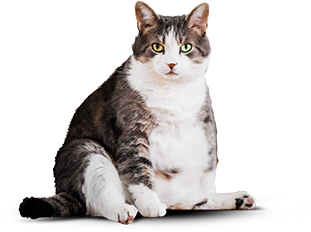
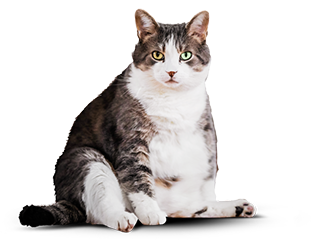
Выполянет ретинизацию графики + скрипт переключения котов на мобильной версии

diff --git a/source/index.html b/source/index.html
@@ -39,9 +39,7 @@
                 <span class="visually-hidden">Открыть меню</span>
             </button>
           </div>
-
           <nav class="main-nav main-nav-closed">
-
             <div class="main-nav__wrapper">
               <ul class="main-nav__list main-nav__list--one_page-max_width">
                 <li class="main-nav__item">
@@ -57,9 +55,7 @@
             </div>
           </nav>
         </div>
-
       </header>
-
       <main class="page-main">
         <div class="page-main__wrapper">
           <section class="page-main__intro">
@@ -68,17 +64,16 @@
                 <h1 class="page-main__title">Функциональное питание для котов</h1>
                 <p class="page-main__subtitle">Занялся собой? Займись котом!</p>
               </div>
-              <img class="page-main__img" src="img/mobile/index-can-mobile_1.png" alt="Корм для котов Cat Energy PRO" width="280" height="270">
+              <picture>
+                <source media="(min-width: 1440px)" srcset="img/index-can-desktop.png 1x, img/index-can-desktop@2x.png 2x">
+                <source media="(min-width: 768px)" srcset="img/index-can-tablet_1.png 1x, img/index-can-tablet_1@2x.png 2x">
+                <img class="page-main__img" src="img/index-can-mobile_1.png" srcset="img/index-can-mobile_1@2x.png 2x" alt="Корм для котов Cat Energy PRO">
+              </picture>
               <div class="page-main__link-container">
                 <a class="button page-main__select-program-link" href="program.html">Подобрать программу</a>
               </div>
             </div>
-
           </section>
-
-
-
-
           <section class="nutrition-programs">
             <h2 class="visually-hidden">Программы питания</h2>
             <div class="nutrition-programs__container">
@@ -87,31 +82,21 @@
                   <h3 class="nutrition-programs__title nutrition-programs__title-slim">Похудение</h2>
                   <p class="nutrition-programs__text nutrition-programs__text-slim">Ваш кот весит больше собаки и почти утратил способность лазить по деревьям? Пора на диету! Cat Energy Slim поможет вашему питомцу сбросить лишний вес.</p>
                 </div>
-
                 <div class="nutrition-programs__link-wrapper">
                   <a class="nutrition-programs__link"href="catalog.html">Каталог SLIM</a>
                 </div>
               </div>
-
-
               <div class="nutrition-programs__item-container">
                 <div class="nutrition-programs__text-wrapper nutrition-programs__text-wrapper-pro">
                   <h3 class="nutrition-programs__title nutrition-programs__title-pro">Набор массы</h2>
                     <p class="nutrition-programs__text nutrition-programs__text-pro">Заработать авторитет среди дворовых котов и даже собак? Серия Cat Energy Pro поможет вашему коту нарастить необходимые мышцы!</p>
                 </div>
-
                 <div class="nutrition-programs__link-wrapper">
                   <a class="nutrition-programs__link"href="catalog.html">Каталог PRO</a>
                 </div>
               </div>
-
             </div>
-
-
           </section>
-
-
-
           <section class="features features__container">
             <h2 class="features__title">Как это работает</h2>
             <ul class="features__list">
@@ -155,9 +140,24 @@
                   </div>
                 </div>
               </div>
-              <div>
-                <img class="example__img-cat example__img-cat--before" src="img/mobile/before-mobile_1.png" alt="Фото кота до использования программы питания" width="311" height="232">
-                <img class="example__img-cat example__img-cat--after" src="img/mobile/after-mobile 1.png" alt="Фото кота после использования программы питания" width="251" height="240">
+              <div class="example__img-wrapper">
+                <div class="example__img-container">
+                  <div class="example__img-container-item">
+                  <picture>
+                    <source media="(min-width: 1440px)" srcset="img/mobile/before-desktop.png 1x, img/mobile/before-desktop@2x.png 2x">
+                    <source media="(min-width: 768px)" srcset="img/mobile/before-tablet.png 1x, img/mobile/before-tablet@2x.png 2x">
+                    <img class="example__img-cat example__img-cat--before" src="img/mobile/before-mobile_1.png" srcset="img/mobile/before-mobile_1@2x.png 2x" alt="Фото кота до использования программы питания">
+                  </picture>
+                </div>
+                <div class="example__img-container-item">
+                  <picture>
+                    <source media="(min-width: 1440px)" srcset="img/mobile/after-desktop.png 1x, img/mobile/after-desktop@2x.png 2x">
+                    <source media="(min-width: 768px)" srcset="img/mobile/after-tablet.png 1x, img/mobile/after-tablet@2x.png 2x">
+                    <img class="example__img-cat example__img-cat--after example__img-cat--close" src="img/mobile/after-mobile_1.png" alt="Фото кота после использования программы питания" srcset="img/mobile/after-mobile_1@2x.png 2x">
+                  </picture>
+                </div>
+              </div>
+
                 <div class="toggle-control">
                   <button class="toggle-control__button toggle-control__button-before" type="button">Было</button>
                   <div class="range-before-after"></div>
@@ -165,7 +165,6 @@
                 </div>
               </div>
             </div>
-
           </section>
           <section class="contacts contacts--one-page">
             <div class="contacts--center">
@@ -179,11 +178,9 @@
                 </div>
               </div>
             </div>
-
             <div class="contacts__map-container">
               <iframe class="contacts__map" src="https://www.google.com/maps/embed?pb=!1m18!1m12!1m3!1d1998.603787253323!2d30.320858716382862!3d59.93871648187622!2m3!1f0!2f0!3f0!3m2!1i1024!2i768!4f13.1!3m3!1m2!1s0x4696310fca145cc1%3A0x42b32648d8238007!2z0JHQvtC70YzRiNCw0Y8g0JrQvtC90Y7RiNC10L3QvdCw0Y8g0YPQuy4sIDE5LzgsINCh0LDQvdC60YIt0J_QtdGC0LXRgNCx0YPRgNCzLCAxOTExODY!5e0!3m2!1sru!2sru!4v1616775586358!5m2!1sru!2sru" width=320px height=100% style="border: 0;" allowfullscreen="" loading="lazy"></iframe>
             </div>
-
           </section>
         </div>
       </main>
@@ -230,7 +227,7 @@
           </div>
         </div>
       </footer>
-
       <script src="js/script-menu.js"></script>
+      <script src="js/script-cat.js"></script>
   </body>
 </html>

diff --git a/source/sass/blocks/example.scss b/source/sass/blocks/example.scss
@@ -6,7 +6,7 @@
   @media (min-width: $tablet-width) {
     padding: 43px $container-padding-tablet 25px $container-padding-tablet;
     background-color: $basic-white;
-    background-image: linear-gradient(to top, #eaeaea 220px, transparent 220px);
+    background-image: linear-gradient(to top, #eaeaea 540px, transparent 540px);
   }
 
   @media (min-width: $desktop-width) {
@@ -188,5 +188,47 @@
     display: flex;
     flex-wrap: wrap;
     justify-content: space-between;
+  }
+}
+
+.example__img-cat {
+  display: block;
+  object-fit: contain;
+  margin-left: auto;
+  margin-right: auto;
+}
+
+.example__img-cat--close {
+  @media (max-width: 767px) {
+    display: none;
+  }
+}
+
+.example__img-cat--before {
+  @media (max-width: 767px) {
+    height: 240px;
+    width: 320px;
+  }
+}
+
+.example__img-cat--after {
+  @media (max-width: 767px) {
+    height: 240px;
+    width: 320px;
+  }
+}
+
+.example__img-container {
+  margin-bottom: 15px;
+
+  @media (min-width: $tablet-width) {
+    display: flex;
+    justify-content: center;
+  }
+}
+
+.example__img-wrapper {
+  @media (min-width: $desktop-width) {
+    margin-top: -252px;
   }
 }

diff --git a/source/js/script-cat.js b/source/js/script-cat.js
@@ -1,0 +1,23 @@
+const exampleImgCat = document.querySelector(".example__img-cat");
+const buttonBefore = document.querySelector(".toggle-control__button-before");
+const buttonAfter = document.querySelector(".toggle-control__button-after");
+const exampleImgCatBefore = document.querySelector(".example__img-cat--before");
+const exampleImgCatAfter = document.querySelector(".example__img-cat--after");
+
+// nav.classList.add("main-nav-closed");
+
+buttonAfter.addEventListener("click", function (evt){
+  if (nav.classList.contains("main-nav-closed")){
+    evt.preventDefault();
+    exampleImgCatAfter.classList.remove("example__img-cat--close");
+    exampleImgCatBefore.classList.add("example__img-cat--close");
+  }
+});
+
+buttonBefore.addEventListener("click", function (evt){
+  if (nav.classList.contains("main-nav-closed")){
+    evt.preventDefault();
+    exampleImgCatBefore.classList.remove("example__img-cat--close");
+    exampleImgCatAfter.classList.add("example__img-cat--close");
+  }
+});

diff --git a/source/sass/blocks/page-main.scss b/source/sass/blocks/page-main.scss
@@ -20,7 +20,11 @@
   background-size: auto, 320px auto;
   background-position: 100%, top;
   width: 100%;
-  // width: 320px;
+
+  @media (min-resolution: 2dppx) {
+    background-image: linear-gradient(to top, $basic-white 171px, transparent 171px),
+      url("../img/back-page-main_intro@2x.jpg");
+  }
 
   @media (min-width: $tablet-width) {
     position: relative;
@@ -145,12 +149,24 @@
 .page-main__img {
   padding-top: 13px;
 
+  @media (max-width: 767px) {
+    width: 280px;
+    height: 270px;
+  }
+
+
   @media (min-width: $tablet-width) {
     position: absolute;
     left: 0;
     right: 0;
+    top: 211px;
     margin: auto;
     z-index: -1;
+  }
+
+  @media (min-width: $desktop-width) {
+    top: 0;
+    margin-left: 29%;
   }
 }
 

diff --git a/source/sass/blocks/page-header.scss b/source/sass/blocks/page-header.scss
@@ -36,7 +36,7 @@
     position: absolute;
     content: "";
     display: block;
-    background: url("../img/back_intro.jpg"),
+    background-image: url("../img/back_intro.jpg"),
       linear-gradient(to right, $basic-white 50%, $basic_green-2 50%);
     width: 100%;
     min-height: 680px;
@@ -46,6 +46,11 @@
     top: 0;
     right: 0;
     z-index: -2;
+
+    @media (min-resolution: 2dppx) {
+      background-image: url("../img/back_intro@2x.jpg"),
+        linear-gradient(to right, $basic-white 50%, $basic_green-2 50%);
+    }
   }
 }
 

diff --git a/source/sass/blocks/form.scss b/source/sass/blocks/form.scss
@@ -413,11 +413,6 @@
     outline: none;
   }
 
-  // &:invalid:focus {
-  //   // box-shadow: 2px 2px 0 0 #ff8282 inset;
-  //   border: 2px solid #ff8282;
-  // }
-
   &:not(:placeholder-shown):invalid {
     border-color: #ff8282;
     border-width: 2px;

diff --git a/source/sass/blocks/toggle-control.scss b/source/sass/blocks/toggle-control.scss
@@ -7,11 +7,12 @@
 
   @media (min-width: $tablet-width) {
     margin-bottom: 38px;
+    margin-top: -85px;
   }
 
   @media (min-width: $desktop-width) {
     margin-bottom: 0;
-    margin-top: 40px;
+    margin-top: 19px;
   }
 }
 

diff --git a/source/sass/blocks/nutrition-programs.scss b/source/sass/blocks/nutrition-programs.scss
@@ -3,6 +3,11 @@
   margin-bottom: 27px;
   color: $color-text;
 
+  @media (min-width: $tablet-width) {
+    margin-top: 49px;
+  }
+
+
   @media (min-width: $desktop-width) {
     margin-left: auto;
     margin-right: auto;
